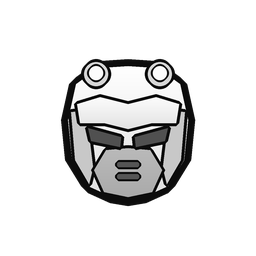
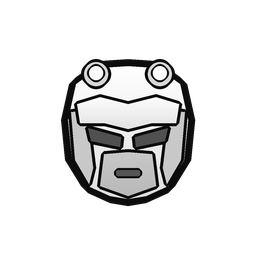
Bulwark v2 helmet: simple chin plate with one slot instead of the breather
Claude-Session: https://claude.ai/code/session_01GM4XsNt8FF8EEgy8oUJDKj

Changed region(s): [[0.3438, 0.5625, 0.6562, 0.7812]]

diff --git a/Source/Art/v2/bulwark.py b/Source/Art/v2/bulwark.py
@@ -41,8 +41,8 @@ S.plate(S.ell(46,84,82,118),246,212,stroke=3,mirror=True)                       
 H=Layer()
 H.plate(H.poly(sym([(128,66),(98,68),(76,84),(68,120),(72,160),(88,186),(110,196),(128,199)])),255,222,stroke=7)  # shell
 H.plate(H.poly([(71,112),(86,110),(93,168),(89,184),(75,160)]),200,stroke=3,mirror=True)                   # cheek planes
-H.plate(H.poly(sym([(128,148),(106,150),(94,170),(104,192),(128,197)])),186,170,stroke=3)                 # breather jaw (mid grey)
-for y in (162,174): H.mark(H.rrect(117,y,139,y+5,2))                                                        # breather slots
+H.plate(H.poly(sym([(128,152),(104,154),(100,186),(128,196)])),200,184,stroke=3)                            # simple chin plate
+H.mark(H.rrect(116,170,140,176,2))                                                                         # one slot
 H.plate(H.poly(sym([(128,104),(100,97),(77,104),(80,123),(104,123),(128,129)])),252,226,stroke=3)         # heavy brow
 H.plate(H.poly([(88,128),(121,137),(120,147),(91,141)]),80,stroke=3,mirror=True)                           # slanted eye slits
 H.plate(H.ell(84,62,108,86),214,stroke=3,mirror=True)                                                      # crown lamp housings, on the shell
